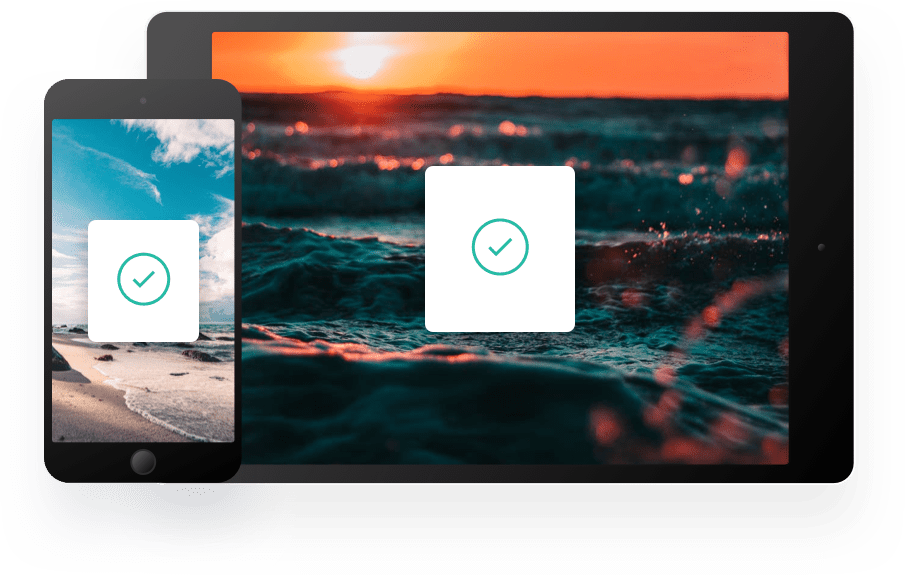
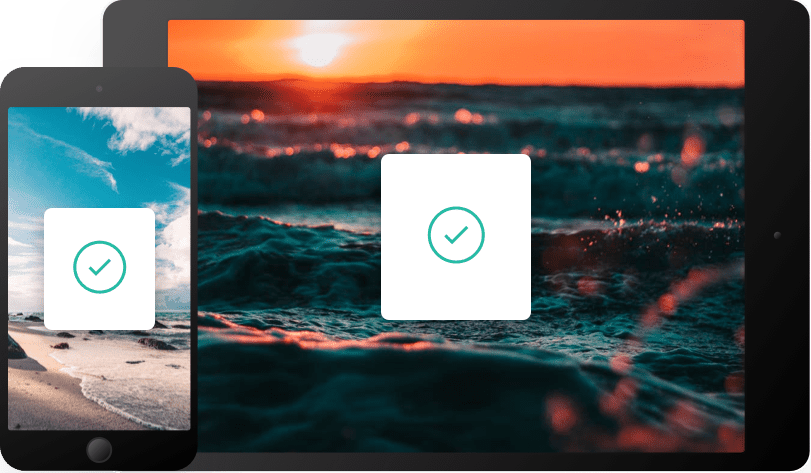
update last component

diff --git a/index.html b/index.html
@@ -13,121 +13,105 @@
   <title>Frontend Mentor | Clipboard landing page</title>
 </head>
 <body>
-  <section class="intro container container-mw-sm container-mw-sm-ptop">
-    <img src="images/logo.svg" alt="logo">
-    <h1>A history of everything you copy</h1>
+  <section aria-labelledby="Clipboard_Introduction" class="intro container container-mw-sm container-mw-sm-ptop">
+    <a href="#" class="intro__logo"><img src="images/logo.svg" alt="logo"></a>
+    <h1 id="Clipboard_Introduction">A history of everything you copy</h1>
     <p>Clipboard allows you to track and organize everything you copy. Instantly access your clipboard on all your devices.</p>
-    <a href="#" class="intro__button intro__button-ios">Download for iOS</a><a href="#" class="intro__button intro__button-mac">Download for Mac</a>
+    <a href="#" class="intro__button intro__button-ios" aria-label="download for ios button">Download for iOS</a><a href="#" class="intro__button intro__button-mac" aria-label="download for mac button">Download for Mac</a>
   </section>
 
-  <section class="snippets container container-mw-md">
+  <section aria-labelledby="Track_Snippets" class="snippets container container-mw-md">
     <div class="snippets__header container-mw-sm">
-      <h2>Keep track of your snippets</h2>
+      <h2 id="Track_Snippets">Keep track of your snippets</h2>
       <p>Clipboard instantly stores any item you copy in the cloud, meaning you can access your snippets immediately on all your devices. Our Mac and iOS apps will help you organize everything.</p>
     </div>
     <div class="snippets__flex">
       <div class="snippets__desktop-img snippets__flex-item">
       </div>
       <div class="snippets__flex-item">
-        <div class="snippets__subcontent">
-          <h3>Quick Search</h3>
+        <section aria-labelledby="Quick_Search" class="snippets__subcontent">
+          <h3 id="Quick_Search">Quick Search</h3>
           <p>Easily search your snippets by content, category, web address, application, and more.</p>
-        </div>
-        <div class="snippets__subcontent">
-          <h3>iCloud Sync</h3>
+        </section>
+        <section aria-labelledby="iCloud_Sync" class="snippets__subcontent">
+          <h3 id="iCloud_Sync">iCloud Sync</h3>
           <p>Instantly saves and syncs snippets across all your devices.</p>
-        </div>
-        <div class="snippets__subcontent">
-          <h3>Complete History</h3>
+        </section>
+        <section aria-labelledby="Complete_History" class="snippets__subcontent">
+          <h3 id="Complete_History">Complete History</h3>
           <p>Retrieve any snippets from the first moment you started using the app.</p>
-        </div>
+        </section>
       </div>
     </div>
   </section>
 
-  <section class="clipboard container container-mw-sm">
-    <h2>Access Clipboard anywhere</h2>
+  <section aria-labelledby="Clipboard" class="clipboard container container-mw-sm">
+    <h2 id="Clipboard">Access Clipboard anywhere</h2>
     <p>Whether you’re on the go, or at your computer, you can access all your Clipboard snippets in a few simple clicks.</p>
     <div class="clipboard__img"></div>
   </section>
 
-  <section class="workflow container container-mw-lg">
+  <section aria-labelledby="Workflow" class="workflow container container-mw-lg">
     <div class="workflow__main-content">
-      <h2>Supercharge your workflow</h2>
+      <h2 id="Workflow">Supercharge your workflow</h2>
       <p>We’ve got the tools to boost your productivity.</p>
     </div>
     <div class="workflow__flex">
-      <div class="workflow__sub-content workflow__flex-item">
+      <section aria-labelledby="Blacklists" class="workflow__sub-content workflow__flex-item">
         <img src="images/icon-blacklist.svg" alt="Blacklist icon">
-        <h3>Create blacklists</h3>
+        <h3 id="Blacklists">Create blacklists</h3>
         <p>Ensure sensitive information never makes its way to your clipboard by excluding certain sources.</p>
-      </div>
-      <div class="workflow__sub-content workflow__flex-item">
+      </section>
+      <section aria-labelledby="Text" class="workflow__sub-content workflow__flex-item">
         <img src="images/icon-text.svg" alt="Text icon">
-        <h3>Plain text snippets</h3>
+        <h3 id="Text">Plain text snippets</h3>
         <p>Remove unwanted formatting from copied text for a consistent look.</p>
-      </div>
-      <div class="workflow__sub-content workflow__flex-item">
+      </section>
+      <section aria-labelledby="Preview" class="workflow__sub-content workflow__flex-item">
         <img src="images/icon-preview.svg" alt="Preview icon">
-        <h3>Sneak preview</h3>
+        <h3 id="Preview">Sneak preview</h3>
         <p>Quick preview of all snippets on your Clipboard for easy access.</p>
-      </div>
+      </section>
     </div>
   </section>
 
-  <section class="company container container-mw-lg">
+  <section aria-label="Company_links" class="company container container-mw-lg">
     <div>
-      <img src="images/logo-google.png" alt="Google logo">
+      <a href="#"><img src="images/logo-google.png" alt="Google logo"></a>
     </div>
     <div> 
-      <img src="images/logo-ibm.png" alt="IBM logo">
+      <a href="#"><img src="images/logo-ibm.png" alt="IBM logo"></a>
     </div>
     <div>
-      <img src="images/logo-microsoft.png" alt="Microsoft logo">
+      <a href="#"><img src="images/logo-microsoft.png" alt="Microsoft logo"></a>
     </div>
     <div>
-      <img src="images/logo-hp.png" alt="HP logo">
+      <a href="#"><img src="images/logo-hp.png" alt="HP logo"></a>
     </div>
     <div>
-      <img src="images/logo-vector-graphics.png" alt="Vector Graphics logo">
+      <a href="#"><img src="images/logo-vector-graphics.png" alt="Vector Graphics logo"></a>
     </div>
   </section>
 
-  <section class="download container container-mw-sm">
-    <h2>Clipboard for iOS and Mac OS</h2>
+  <section aria-labelledby="Clipboard_App" class="download container container-mw-sm">
+    <h2 id="Clipboard_App">Clipboard for iOS and Mac OS</h2>
     <p>Available for free on the App Store. Download for Mac or iOS, sync with iCloud and you’re ready to start adding to your clipboard.</p>
 
-    <a href="#" class="intro__button intro__button-ios">Download for iOS</a><a href="#" class="intro__button intro__button-mac">Download for Mac</a>
+    <a href="#" class="download__button download__button-ios" aria-label="download for ios button">Download for iOS</a><a href="#" class="download__button download__button-mac" aria-label="download for mac button">Download for Mac</a>
   </section>
 
-  <footer class="footers">
-    <section class="footer container container-mw-lg">
+  <footer class="footer_bg">
+    <div class="footer container container-mw-lg">
       <div class="footer__logo">
         <a href="#"><img src="images/logo.svg" alt="logo"></a>
       </div>
       <div class="footer__links">
-        <div>
-          <a href="#">FAQs</a>
-        </div>
-        <div>
-          <a href="#">Contact Us</a>
-        </div>
-        <div>
-          <a href="#">Privacy Policy</a>
-        </div>
-        <div>
-          <a href="#">Press Kit</a>
-        </div>
-        <div>
-          <a href="#">Install Guide</a>
-        </div> 
+          <a href="#" class="footer__links-faqs">FAQs</a><a href="#" class="footer__links-contact">Contact Us</a><a href="#" class="footer__links-privacy">Privacy Policy</a><a href="#" class="footer__links-kit">Press Kit</a><a href="#" class="footer__links-install">Install Guide</a>
       </div>
       <div class="footer__sm-links">
-        <a href="#" class="fa-brands fa-facebook-square"></a>
-        <a href="#" class="fa-brands fa-twitter"></a>
-        <a href="#" class="fa-brands fa-instagram"></a>
+        <a href="#" class="fa-brands fa-facebook-square"></a><a href="#" class="fa-brands fa-twitter"></a><a href="#" class="fa-brands fa-instagram"></a>
       </div>
-    </section>
+    </div>
   </footer>
 
   <script src="app/js/script.js"></script>

diff --git a/dist/style.css b/dist/style.css
@@ -1,0 +1,2 @@
+:root{--font-body:"Bai Jamjuree",sans-serif;--white:#fff;--black:#000;--strong-cyan:#26baa4;--light-blue:#6173ff;--dark-grayish-blue:#4c545d;--grayish-blue:#9fabb2;--lt-grayish-blue:#f1f3f4}html{box-sizing:border-box;font-family:var(--font-body);font-size:100%}*,:after,:before{box-sizing:inherit}h1,h2,h3{color:var(--dark-grayish-blue)}h2{font-size:1.625rem;margin-bottom:1.625rem}@media (min-width:71.875em){h2{font-size:2.125rem}}h3{font-size:1.4375rem;margin-bottom:1.25rem}body,p{margin:0}body{background-image:url(/images/bg-header-mobile.png);background-position:0 0;background-repeat:no-repeat;background-size:contain;color:var(--grayish-blue);font-size:1rem;font-weight:400;line-height:1.8;padding:0;text-align:center}@media (min-width:40em){body{background-image:url(/images/bg-header-desktop.png);background-position:0 0;background-repeat:no-repeat;background-size:contain}}h1,h2,h3{line-height:1.1;margin-top:0}a:active,a:link,a:visited{text-decoration:none}.container{padding:0 2rem 8.75rem}.container-mw-sm{margin:0 auto;max-width:43.125rem}.container-mw-sm-ptop{padding-top:7.6875rem}.container-mw-md{margin:0 auto;max-width:56.25rem}.container-mw-lg{margin:0 auto;max-width:69.375rem}.flex{display:flex;flex-flow:column wrap}.flex-jc-c{justify-content:center}.flex-ai-c{align-items:center}.flex-ac-c{align-content:center}.intro__logo{display:inline-block;margin-bottom:4.6875rem}.intro__logo img{height:7.875rem;width:7.875rem}@media (min-width:71.875em){.intro__logo{margin-bottom:4.375rem}}.intro>h1{font-size:1.875rem;margin-bottom:1.625rem}@media (min-width:71.875em){.intro>h1{font-size:2.5rem}}.intro>p{margin-bottom:3.25rem}@media (min-width:71.875em){.intro>p{font-size:1.125rem}}.intro__button{border-radius:1.875rem;color:var(--white);display:block;font-weight:600;opacity:1;padding:1rem;transition:opacity .2s ease-in-out}@media (max-width:39.9375em){.intro__button:not(:last-child){margin-bottom:1.5625rem}}@media (min-width:40em){.intro__button{display:inline-block;padding:.875rem 2.1875rem}.intro__button:not(:last-child){margin-right:.9375rem}}.intro__button-ios{background-color:var(--strong-cyan)}.intro__button-mac{background-color:var(--light-blue)}.intro__button:hover{opacity:.8}.snippets__header>p{margin-bottom:4.375rem}@media (min-width:71.875em){.snippets__header>p{font-size:1.125rem}.snippets__flex{display:flex;flex-flow:row wrap}.snippets__flex-item{align-self:center;flex:1;text-align:left}}.snippets__desktop-img{background-image:url(/images/image-computer.png);background-position:50%;background-repeat:no-repeat;background-size:contain;height:17.9375rem;margin-bottom:3.875rem;position:relative}@media (min-width:71.875em){.snippets__desktop-img{background:none;height:35.75rem;margin:0}.snippets__desktop-img:after{background-image:url(/images/image-computer.png);background-position:50%;background-repeat:no-repeat;bottom:0;content:"";left:-20.9375rem;position:absolute;right:0;top:0}}.snippets__subcontent:not(:last-child){margin-bottom:3.75rem}@media (min-width:71.875em){.snippets__subcontent{margin-left:4.375rem}}.clipboard>p{margin-bottom:4.375rem}@media (min-width:71.875em){.clipboard>p{font-size:1.125rem;margin-bottom:6.5625rem}}.clipboard__img{background-image:url(/images/image-devices.png);background-position:50%;background-repeat:no-repeat;background-size:contain;height:13.75rem;position:relative}@media (min-width:71.875em){.clipboard__img{background:none;height:29.5rem}.clipboard__img:after{background-image:url(/images/image-devices.png);background-position:50%;background-repeat:no-repeat;background-size:contain;bottom:-5.9375rem;content:"";left:-6.25rem;position:absolute;right:-6.25rem;top:-5.75rem}}.workflow__main-content{margin-bottom:5.875rem}.workflow__sub-content>img{height:2.5rem;margin-bottom:3rem}.workflow__sub-content>h3{margin-bottom:1.6875rem}@media (max-width:71.8125em){.workflow__sub-content:not(:last-child){margin-bottom:3.75rem}}@media (min-width:71.875em){.workflow__flex{display:flex;flex-direction:row;gap:2.1875rem}.workflow__flex-item{flex:1}}.company{display:flex;flex-direction:column;gap:4.1875rem}@media (min-width:71.875em){.company{align-items:center;flex-direction:row;gap:0;justify-content:space-between}}.download>p{margin-bottom:3.25rem}@media (min-width:71.875em){.download>p{font-size:1.125rem}}.download__button{border-radius:1.875rem;color:var(--white);display:block;font-weight:600;opacity:1;padding:1rem;transition:opacity .2s ease-in-out}@media (max-width:39.9375em){.download__button:not(:last-child){margin-bottom:1.5625rem}}@media (min-width:40em){.download__button{display:inline-block;padding:.875rem 2.1875rem}.download__button:not(:last-child){margin-right:.9375rem}}.download__button-ios{background-color:var(--strong-cyan)}.download__button-mac{background-color:var(--light-blue)}.download__button:hover{opacity:.8}.footer_bg{background-color:var(--lt-grayish-blue)}.footer{padding:3.125rem 0}.footer a{color:var(--dark-grayish-blue)}@media (max-width:71.8125em){.footer>div:not(:last-child){margin-bottom:3rem}}.footer__logo{font-size:0}.footer__logo a{display:inline-block}.footer__logo img{width:3.5625rem}@media (min-width:71.875em){.footer{align-items:center;display:grid;grid-template-columns:1fr 3fr 2fr;justify-items:start}}.footer__links{display:grid;gap:2.0625rem;grid-template-columns:1fr}@media (min-width:71.875em){.footer__links{align-content:space-between;-moz-column-gap:4.6875rem;column-gap:4.6875rem;display:grid;grid-template-columns:repeat(3,1fr);justify-items:start;row-gap:.9375rem}.footer__links-faqs{grid-column:1/2;grid-row:1/2}.footer__links-contact{grid-column:1/2;grid-row:2/3}.footer__links-privacy{grid-column:2/3;grid-row:1/2}.footer__links-kit{grid-column:2/3;grid-row:2/3}.footer__links-install{grid-column:3/4;grid-row:1/2}}.footer__sm-links>a{font-size:1.5625rem}.footer__sm-links>a:not(:last-child){margin-right:2.25rem}@media (min-width:71.875em){.footer__sm-links{justify-self:end}}
+/*# sourceMappingURL=style.css.map */

diff --git a/app/scss/components/footer.scss b/app/scss/components/footer.scss
@@ -1,5 +1,5 @@
 @use '../util' as *;
-.footers {
+.footer_bg {
   background-color: var(--lt-grayish-blue);
 }
 
@@ -10,17 +10,63 @@
     color: var(--dark-grayish-blue);
   }
 
+  > div {
+    @include breakpoint-down(medium) {
+      &:not(:last-child) {
+        margin-bottom: rem(48)
+      }
+    }
+  }
+
   &__logo {
-    margin-bottom: rem(48);
+    font-size: 0;
+    a {
+      display: inline-block;
+    }
     img {
       width: rem(57);
     }
   }
 
+  @include breakpoint(large) {
+    display: grid;
+    grid-template-columns: 1fr 3fr 2fr;
+    justify-items: start;
+    align-items: center;
+  }
+
   &__links {
-    margin-bottom: rem(48);
-    :not(:last-child) {
-      margin-bottom: rem(33);
+    display: grid;
+    grid-template-columns: 1fr;
+    gap: rem(33);
+
+    @include breakpoint(large) {
+      display: grid;
+      grid-template-columns: repeat(3, 1fr);
+      justify-items: start;
+      align-content: space-between;
+      column-gap: rem(75);
+      row-gap: rem(15);
+      &-faqs {
+        grid-column: 1/2;
+        grid-row: 1/2;
+      }
+      &-contact {
+        grid-column: 1/2;
+        grid-row: 2/3;
+      }
+      &-privacy {
+        grid-column: 2/3;
+        grid-row: 1/2;
+      }
+      &-kit {
+        grid-column: 2/3;
+        grid-row: 2/3;
+      }
+      &-install {
+        grid-column: 3/4;
+        grid-row: 1/2;
+      }
     }
   }
   
@@ -31,17 +77,7 @@
         margin-right: rem(36);
       }
     }
-  }
-
-  @include breakpoint(large) {
-    display: grid;
-    grid-template-columns: 1fr 3fr 2fr;
-    justify-items: start;
-    &__links {
-      display: grid;
-      grid-template-columns: repeat(3, 1fr);
-    }
-    &__sm-links {
+    @include breakpoint(large) {
       justify-self: end;
     }
   }

diff --git a/dist/components/footer.css b/dist/components/footer.css
@@ -1,0 +1,2 @@
+.footer_bg{background-color:var(--lt-grayish-blue)}.footer{padding:3.125rem 0}.footer a{color:var(--dark-grayish-blue)}@media (max-width:71.8125em){.footer>div:not(:last-child){margin-bottom:3rem}}.footer__logo{font-size:0}.footer__logo a{display:inline-block}.footer__logo img{width:3.5625rem}@media (min-width:71.875em){.footer{align-items:center;display:grid;grid-template-columns:1fr 3fr 2fr;justify-items:start}}.footer__links{display:grid;gap:2.0625rem;grid-template-columns:1fr}@media (min-width:71.875em){.footer__links{align-content:space-between;-moz-column-gap:4.6875rem;column-gap:4.6875rem;display:grid;grid-template-columns:repeat(3,1fr);justify-items:start;row-gap:.9375rem}.footer__links-faqs{grid-column:1/2;grid-row:1/2}.footer__links-contact{grid-column:1/2;grid-row:2/3}.footer__links-privacy{grid-column:2/3;grid-row:1/2}.footer__links-kit{grid-column:2/3;grid-row:2/3}.footer__links-install{grid-column:3/4;grid-row:1/2}}.footer__sm-links>a{font-size:1.5625rem}.footer__sm-links>a:not(:last-child){margin-right:2.25rem}@media (min-width:71.875em){.footer__sm-links{justify-self:end}}
+/*# sourceMappingURL=footer.css.map */

diff --git a/dist/components/intro.css b/dist/components/intro.css
@@ -1,0 +1,2 @@
+.intro__logo{display:inline-block;margin-bottom:4.6875rem}.intro__logo img{height:7.875rem;width:7.875rem}@media (min-width:71.875em){.intro__logo{margin-bottom:4.375rem}}.intro>h1{font-size:1.875rem;margin-bottom:1.625rem}@media (min-width:71.875em){.intro>h1{font-size:2.5rem}}.intro>p{margin-bottom:3.25rem}@media (min-width:71.875em){.intro>p{font-size:1.125rem}}.intro__button{border-radius:1.875rem;color:var(--white);display:block;font-weight:600;opacity:1;padding:1rem;transition:opacity .2s ease-in-out}@media (max-width:39.9375em){.intro__button:not(:last-child){margin-bottom:1.5625rem}}@media (min-width:40em){.intro__button{display:inline-block;padding:.875rem 2.1875rem}.intro__button:not(:last-child){margin-right:.9375rem}}.intro__button-ios{background-color:var(--strong-cyan)}.intro__button-mac{background-color:var(--light-blue)}.intro__button:hover{opacity:.8}
+/*# sourceMappingURL=intro.css.map */

diff --git a/dist/components/snippets.css b/dist/components/snippets.css
@@ -1,0 +1,2 @@
+.snippets__header>p{margin-bottom:4.375rem}@media (min-width:71.875em){.snippets__header>p{font-size:1.125rem}.snippets__flex{display:flex;flex-flow:row wrap}.snippets__flex-item{align-self:center;flex:1;text-align:left}}.snippets__desktop-img{background-image:url(/images/image-computer.png);background-position:50%;background-repeat:no-repeat;background-size:contain;height:17.9375rem;margin-bottom:3.875rem;position:relative}@media (min-width:71.875em){.snippets__desktop-img{background:none;height:35.75rem;margin:0}.snippets__desktop-img:after{background-image:url(/images/image-computer.png);background-position:50%;background-repeat:no-repeat;bottom:0;content:"";left:-20.9375rem;position:absolute;right:0;top:0}}.snippets__subcontent:not(:last-child){margin-bottom:3.75rem}@media (min-width:71.875em){.snippets__subcontent{margin-left:4.375rem}}
+/*# sourceMappingURL=snippets.css.map */

diff --git a/dist/globals/boilerplate.css b/dist/globals/boilerplate.css
@@ -1,0 +1,2 @@
+html{box-sizing:border-box;font-family:var(--font-body);font-size:100%}*,:after,:before{box-sizing:inherit}h1,h2,h3{color:var(--dark-grayish-blue);line-height:1.1}h2{font-size:1.625rem;margin-bottom:1.625rem}@media (min-width:71.875em){h2{font-size:2.125rem}}h3{font-size:1.4375rem;margin-bottom:1.25rem}body,p{margin:0}body{background-image:url(/images/bg-header-mobile.png);background-position:0 0;background-repeat:no-repeat;background-size:contain;color:var(--grayish-blue);font-size:1rem;font-weight:400;line-height:1.8;padding:0;text-align:center}@media (min-width:40em){body{background-image:url(/images/bg-header-desktop.png);background-position:0 0;background-repeat:no-repeat;background-size:contain}}
+/*# sourceMappingURL=boilerplate.css.map */

diff --git a/app/scss/components/download.scss b/app/scss/components/download.scss
@@ -7,4 +7,38 @@
       font-size: rem(18);
     }
   }
+
+  &__button {
+    display: block;
+    font-weight: 600;
+    color: var(--white);
+    border-radius: rem(30);
+    padding: rem(16);
+    opacity: 1;
+    transition: opacity 200ms ease-in-out;
+
+    @include breakpoint-down(small) {
+      &:not(:last-child) {
+        margin-bottom: rem(25);
+      }
+    }
+
+    @include breakpoint(medium) {
+      display: inline-block;
+      padding: rem(14) rem(35);
+      &:not(:last-child) {
+        margin-right: rem(15);
+      }
+    }
+
+    &-ios {
+      background-color: var(--strong-cyan);
+    }
+    &-mac {
+      background-color: var(--light-blue);
+    }
+    &:hover {
+      opacity: .8;
+    }
+  }
 }

diff --git a/dist/components/download.css b/dist/components/download.css
@@ -1,0 +1,2 @@
+.download>p{margin-bottom:3.25rem}@media (min-width:71.875em){.download>p{font-size:1.125rem}}.download__button{border-radius:1.875rem;color:var(--white);display:block;font-weight:600;opacity:1;padding:1rem;transition:opacity .2s ease-in-out}@media (max-width:39.9375em){.download__button:not(:last-child){margin-bottom:1.5625rem}}@media (min-width:40em){.download__button{display:inline-block;padding:.875rem 2.1875rem}.download__button:not(:last-child){margin-right:.9375rem}}.download__button-ios{background-color:var(--strong-cyan)}.download__button-mac{background-color:var(--light-blue)}.download__button:hover{opacity:.8}
+/*# sourceMappingURL=download.css.map */

diff --git a/dist/components/clipboard.css b/dist/components/clipboard.css
@@ -1,0 +1,2 @@
+.clipboard>p{margin-bottom:4.375rem}@media (min-width:71.875em){.clipboard>p{font-size:1.125rem;margin-bottom:6.5625rem}}.clipboard__img{background-image:url(/images/image-devices.png);background-position:50%;background-repeat:no-repeat;background-size:contain;height:13.75rem;position:relative}@media (min-width:71.875em){.clipboard__img{background:none;height:29.5rem}.clipboard__img:after{background-image:url(/images/image-devices.png);background-position:50%;background-repeat:no-repeat;background-size:contain;bottom:-5.9375rem;content:"";left:-6.25rem;position:absolute;right:-6.25rem;top:-5.75rem}}
+/*# sourceMappingURL=clipboard.css.map */

diff --git a/dist/components/section.css b/dist/components/section.css
@@ -1,0 +1,2 @@
+.section h1,.section h2,.section h3{color:var(--dark-grayish-blue);font-weight:600}.section__button{border-radius:2.5rem;color:var(--white);display:inline-block;font-weight:600;opacity:1;padding:.9375rem 2.25rem;transition:.2s ease-in}.section__button--ios{background-color:var(--strong-cyan)}.section__button--mac{background-color:var(--light-blue)}.section__button:hover{opacity:.8}.flex{display:flex;flex-flow:column wrap;gap:3.125rem}.flex_btn{gap:1.25rem;width:100%}.flex__ai_c{align-items:center}
+/*# sourceMappingURL=section.css.map */

diff --git a/app/scss/components/clipboard.scss b/app/scss/components/clipboard.scss
@@ -15,7 +15,7 @@
     background-repeat: no-repeat;
     background-position: center center;
     background-size: contain;
-    height: rem(252);
+    height: rem(220);
 
     @include breakpoint(large) {
       background: none;
@@ -27,7 +27,7 @@
         background-position: center center;
         background-size: contain;
         position: absolute;
-        top: rem(-60);
+        top: rem(-92);
         right: rem(-100);
         bottom: rem(-95);
         left: rem(-100);
